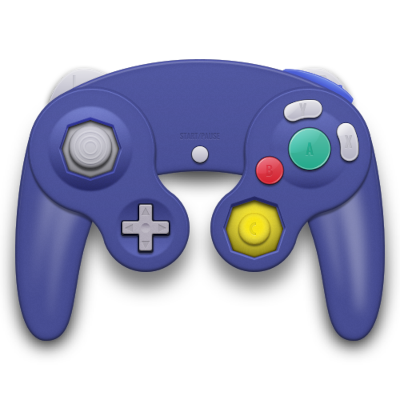
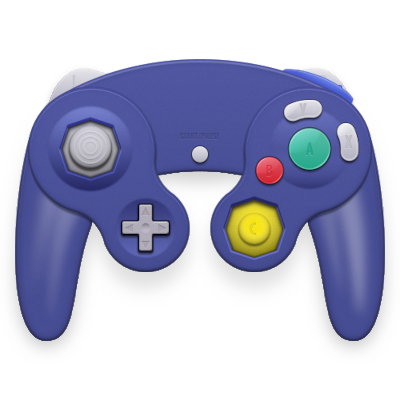
touch up collection images

diff --git a/README.md b/README.md
@@ -26,7 +26,6 @@ To get Pegasus setup on your Retroid Pocket 2/2+ there's a great written guide [
 * follow the instructions [on lines 23-25](https://github.com/plaidman/retromega-next/blob/master/components/resources/Music.qml#L23-L25) to register the music files in `/components/resources/Music.qml`
 
 ## Planned Updates
-* random game select
 * options panel toggles
     * 12/24 hour
     * dark mode
@@ -38,9 +37,6 @@ To get Pegasus setup on your Retroid Pocket 2/2+ there's a great written guide [
     * sorting games list
     * games list alpha index
 * zoomed out system view
-* new systems
-    * wii
-    * ps2
 * dark mode support
 * filterable android apps
 
@@ -53,8 +49,12 @@ To get Pegasus setup on your Retroid Pocket 2/2+ there's a great written guide [
     * organized external resource files (collections and music) for easy editing
     * consolidated input code and cleaned up any double-presses
 * new features
+    * random game selection
     * touch support
     * background music
+    * added ps2, wii collections
+    * touched up wswan, arcade, android, gc, nds, vboy images
+    * removed pokemini and wswancolor for now
 * bug fixes
     * fixed black screen when cancelling multi-file select or if game launch fails
     * fixed back and forward sound effects not properly playing
